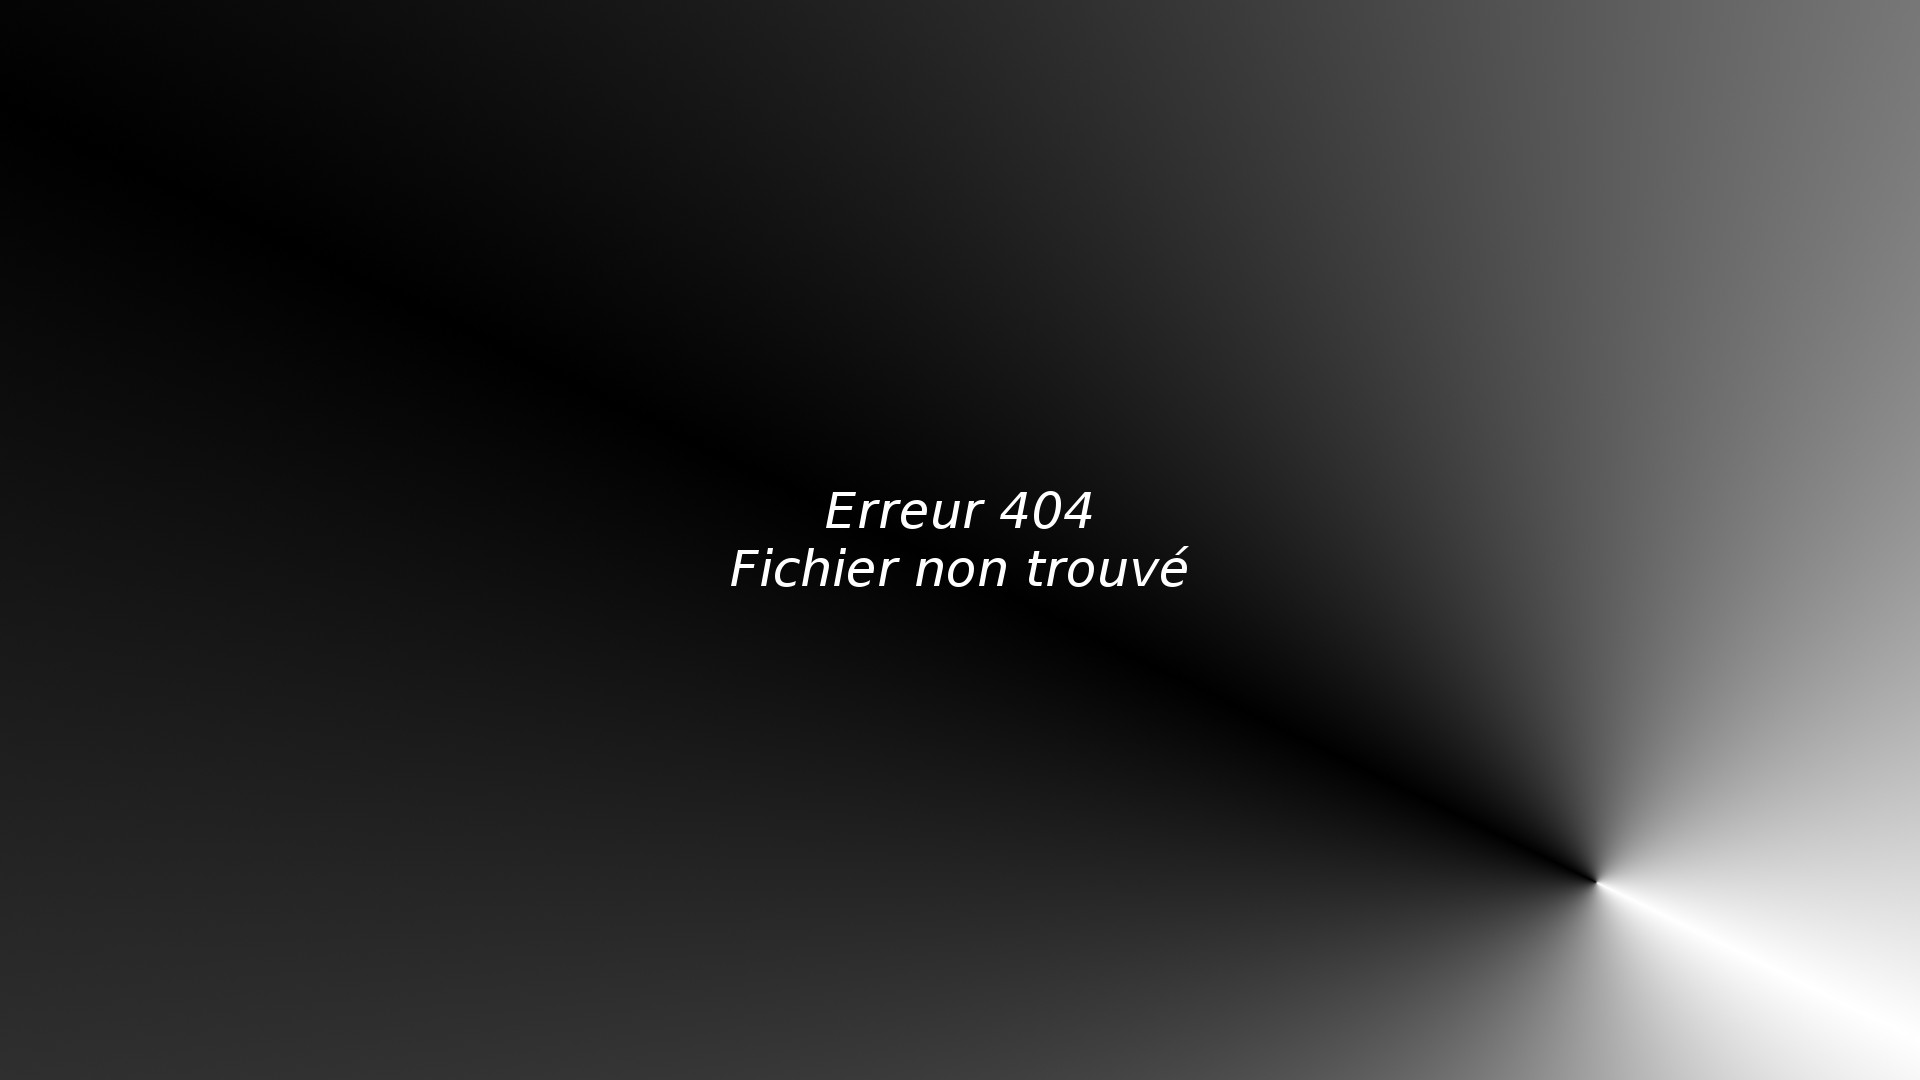
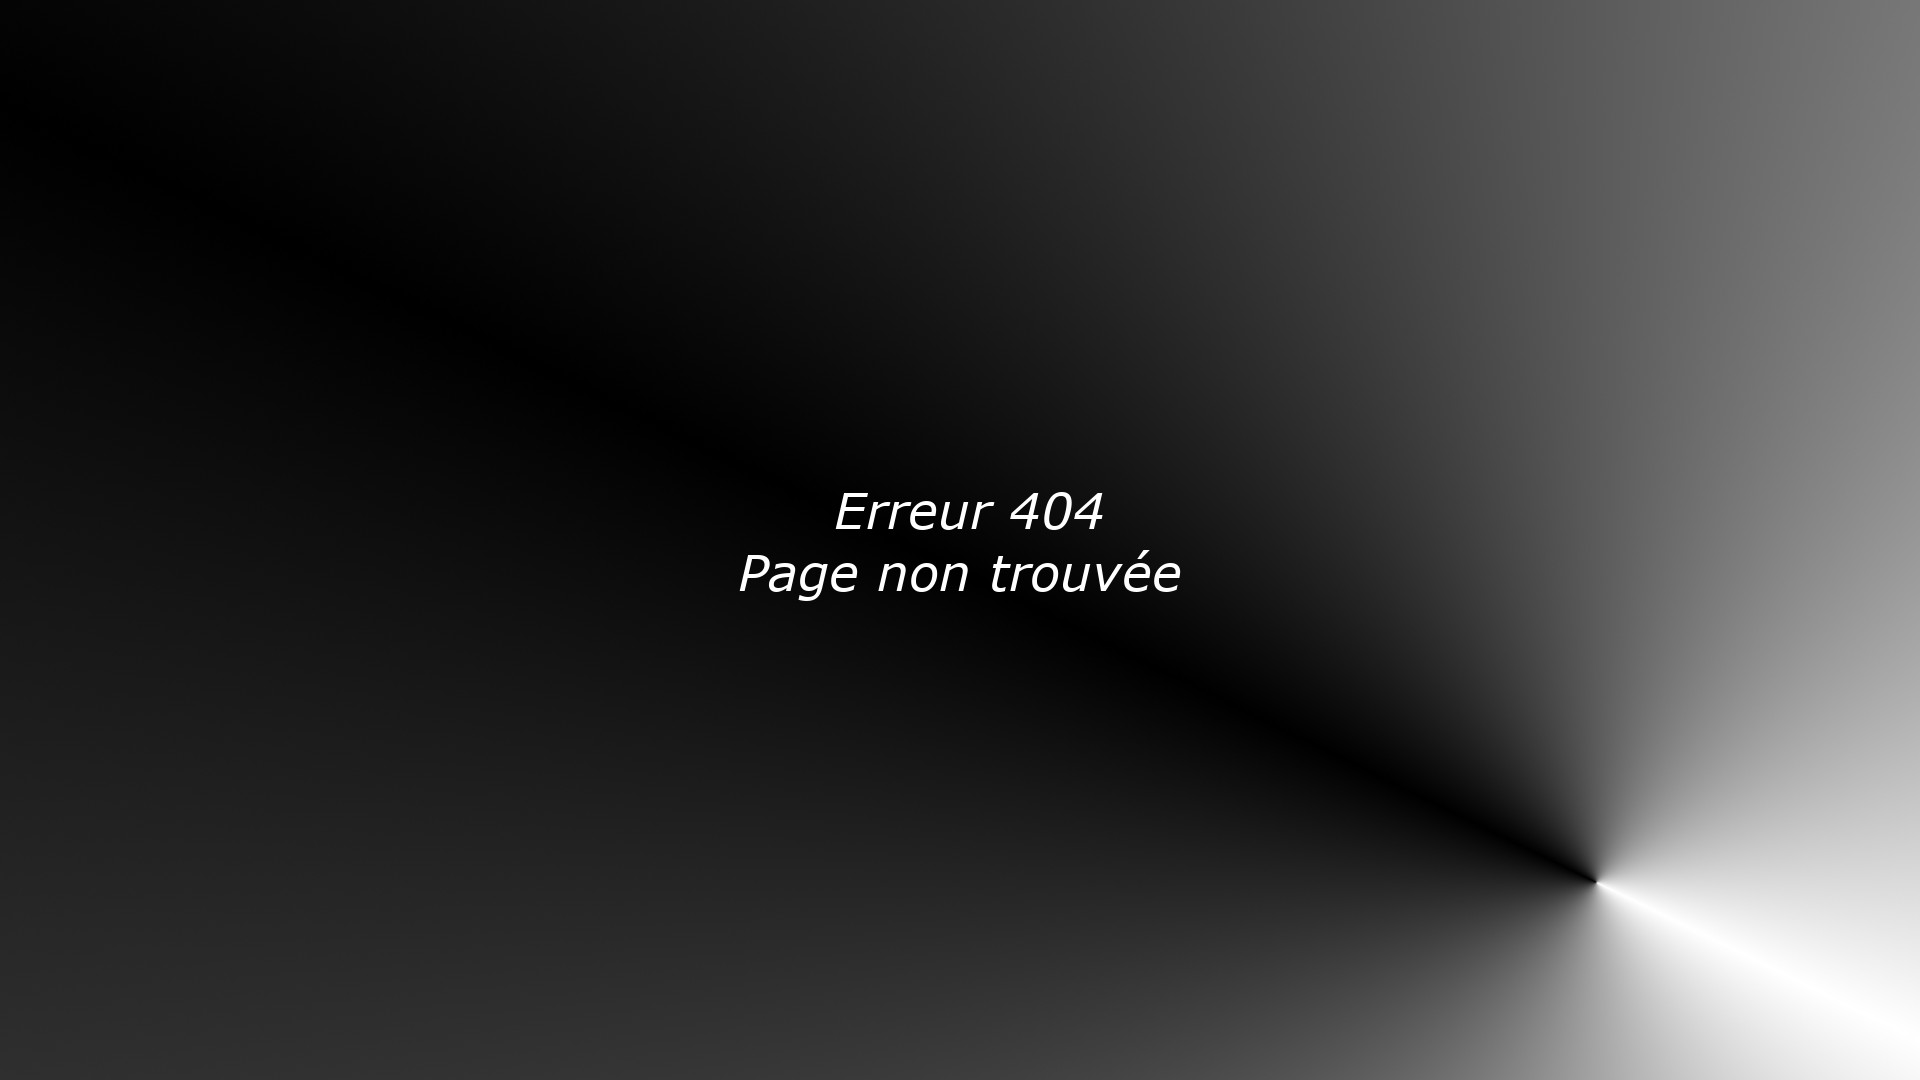
Modification message d'erreur et ajout d'infos dans header

Changed region(s): [[0.375, 0.4889, 0.625, 0.55], [0.4062, 0.4583, 0.5938, 0.4889]]

diff --git a/erreur_404.php b/erreur_404.php
@@ -2,10 +2,15 @@
 <html lang="fr">
 <head>
 	<meta charset="UTF-8"/>
-	<title>MeteoR</title>
+	<title>MeteoR - Page non trouvée</title>
 	<meta name="viewport" content="width=device-width, initial-scale=1.0"/>
 	<meta name="robots" content="noindex, nofollow"/>
+	<meta name="color-scheme" content="light dark"/>
+	<meta name="theme-color" content="#f9f9fb" media="(prefers-color-scheme: light)">
+	<meta name="theme-color" content="#010101" media="(prefers-color-scheme: dark)">
+	<meta name="description" content="Page non trouvée"/>
 	<link rel="icon" type="image/webp" href="img/meteor_favicon.webp"/>
+	<link rel="apple-touch-icon" href="img/meteor_apple_touch.webp">
 	<style>
 body{
 	background: url("img/erreur_404.jpg");
